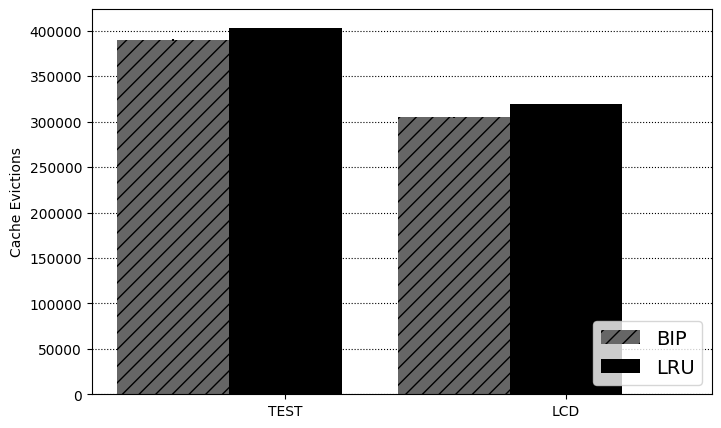
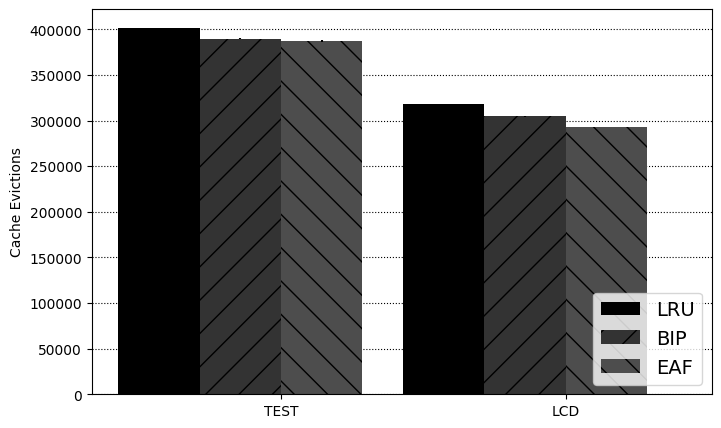
Added paraEAF(basic) and cache hit vs alpha

diff --git a/examples/btp_test/plot_cachepolicy.py b/examples/btp_test/plot_cachepolicy.py
@@ -56,7 +56,8 @@ CACHE_LEGEND = {
          'LRU':             'LRU',
          'BIP':             'BIP',
          'PROB_CACHE':      'ProbCache',
-         'TEST':	    'Test Cache',
+         'TEST':	    	'Test Cache',
+         'EAF':				'EAF',
                     }
 
 # Color and hatch styles for bar charts of cache hit ratio and link load vs topology
@@ -70,6 +71,27 @@ CACHE_BAR_HATCH = {
     'BIP':          '//',
     }
 
+def plot_cache_hits_vs_alpha(resultset, policies, cache_size, alpha_range, strategy, plotdir):
+    desc = {}
+    desc['title'] = 'Cache hit ratio: S=%s C=%s' % (strategy, cache_size)
+    desc['ylabel'] = 'Cache hit ratio'
+    desc['xlabel'] = u'Content distribution \u03b1'
+    desc['xparam'] = ('workload', 'alpha')
+    desc['xvals'] = alpha_range
+    desc['filter'] = {'strategy': {'name': strategy},
+                      'cache_placement': {'network_cache': cache_size}}
+    desc['ymetrics'] = [('CACHE_HIT_RATIO', 'MEAN')]*len(list(set(policies)))
+    desc['ycondnames'] = [('cache_policy', 'name')]*len(list(set(policies)))
+    desc['ycondvals'] = list(set(policies))
+    desc['errorbar'] = True
+    desc['legend_loc'] = 'upper left'
+    desc['line_style'] = CACHE_STYLE
+    desc['legend'] = CACHE_LEGEND
+    desc['plotempty'] = PLOT_EMPTY_GRAPHS
+    plot_lines(resultset, desc, 'CACHE_HIT_RATIO_S=%s@C=%s.png'
+               % (strategy, cache_size), plotdir)
+
+
 def plot_general_policy(resultset, policies, strategies, cache_size, alpha, plotdir, title, ylab, ymetric, name):
 	print(policies, strategies, cache_size, alpha)
 	desc = {}
@@ -79,8 +101,8 @@ def plot_general_policy(resultset, policies, strategies, cache_size, alpha, plot
 	desc['xvals'] = list(set(strategies))
 	desc['filter'] = {'cache_placement': {'network_cache': cache_size},
                       'workload': {'name': 'STATIONARY', 'alpha': alpha}}
-	desc['ymetrics'] = [ymetric]*len(list(set(strategies)))
-	desc['ycondnames'] = [('cache_policy', 'name')]*len(list(set(strategies)))
+	desc['ymetrics'] = [ymetric]*len(list(set(policies)))
+	desc['ycondnames'] = [('cache_policy', 'name')]*len(list(set(policies)))
 	desc['ycondvals'] = list(set(policies))
 	desc['errorbar'] = True
 	desc['legend_loc'] = 'lower right'
@@ -88,7 +110,7 @@ def plot_general_policy(resultset, policies, strategies, cache_size, alpha, plot
 	desc['bar_hatch'] = CACHE_BAR_HATCH
 	desc['legend'] = CACHE_LEGEND
 	desc['plotempty'] = PLOT_EMPTY_GRAPHS
-	
+
 	plot_bar_chart(resultset, desc, name, plotdir)
 
 def plot_cache_hit(resultset, policies, strategies, cache_size, alpha, plotdir):
@@ -133,20 +155,18 @@ def run(config, results, plotdir):
     strategies = settings.STRATEGIES
     policies = settings.CACHE_POLICIES
     # Plot graphs
-    
+    '''
     plot_cache_hit(resultset, policies, strategies, cache_sizes[0], alphas[0], plotdir)
     plot_path_stretch(resultset, policies, strategies, cache_sizes[0], alphas[0], plotdir)
     plot_cache_evictions(resultset, policies, strategies, cache_sizes[0], alphas[0], plotdir)
     plot_cache_utilization(resultset, policies, strategies, cache_sizes[0], alphas[0], plotdir)
     plot_cache_diversity(resultset, policies, strategies, cache_sizes[0], alphas[0], plotdir)
-    
     '''
-    for cache_size in cache_sizes:
-        for alpha in alphas:
-            logger.info('Plotting cache hit ratio for cache size %s vs alpha %s against topologies' % (str(cache_size), str(alpha)))
-            plot_cache_hits_vs_topology(resultset, alpha, cache_size, topologies, strategies, plotdir)
-    logger.info('Exit. Plots were saved in directory %s' % os.path.abspath(plotdir))
-'''
+    
+    
+    for strat in list(set(strategies)):
+         plot_cache_hits_vs_alpha(resultset, policies, cache_sizes[0], alphas, strat, plotdir)
+
 
 def main():
     parser = argparse.ArgumentParser(__doc__)

diff --git a/icarus/models/cache/policies.py b/icarus/models/cache/policies.py
@@ -897,6 +897,92 @@ class BipCache(Cache):
     @inheritdoc(Cache)
     def clear(self):
         self._cache.clear()
+        
+@register_cache_policy('EAF')
+class EafCache(Cache):
+    '''https://users.ece.cmu.edu/~omutlu/pub/eaf-cache_pact12.pdf
+    '''
+    
+    @inheritdoc(Cache)
+    def __init__(self, maxlen, p = 1.0/32, **kwargs):
+        self._cache = LinkedSet()
+        self._EAF = set()
+        self._maxlen = int(maxlen)
+        self.prob = p
+        if not 0 <= self.prob <= 1:
+        	raise ValueError('Probability must be between 0 and 1')
+        if self._maxlen <= 0:
+            raise ValueError('maxlen must be positive')
+            
+    @inheritdoc(Cache)
+    def __len__(self):
+        return len(self._cache)
+
+    @property
+    @inheritdoc(Cache)
+    def maxlen(self):
+        return self._maxlen
+
+    @inheritdoc(Cache)
+    def dump(self):
+        return list(iter(self._cache))
+        
+    @inheritdoc(Cache)
+    def has(self, k, *args, **kwargs):
+        return k in self._cache
+        
+    @inheritdoc(Cache)
+    def get(self, k, *args, **kwargs):
+        # search content over the list
+        # if it has it push on top, otherwise return false
+        if k not in self._cache:
+            return False
+        self._cache.move_to_top(k)
+        return True
+    
+    def put(self, k, *args, **kwargs):
+        """Insert an item in the cache if not already inserted.
+
+        If the element is already present in the cache, it will pushed to the
+        top of the cache.
+
+        Parameters
+        ----------
+        k : any hashable type
+            The item to be inserted
+
+        Returns
+        -------
+        evicted : any hashable type
+            The evicted object or *None* if no contents were evicted.
+        """
+        # if content in cache, push it on top, no eviction
+        if k in self._cache:
+            self._cache.move_to_top(k)
+            return None
+        # if content not in cache append it on top
+        evicted = self._cache.pop_bottom() if len(self._cache) == self._maxlen else None
+        if k in self._EAF:
+        	self._cache.append_top(k)
+        elif random.random() <= self.prob:
+        	self._cache.append_top(k)
+        else:
+        	self._cache.append_bottom(k)
+        self._EAF.add(k)
+        if len(self._EAF) == self._maxlen:
+        	self._EAF = set()
+        return evicted
+
+    @inheritdoc(Cache)
+    def remove(self, k, *args, **kwargs):
+        if k not in self._cache:
+            return False
+        self._cache.remove(k)
+        return True
+
+    @inheritdoc(Cache)
+    def clear(self):
+        self._cache.clear()
 
 
 @register_cache_policy('LRU')

diff --git a/examples/btp_test/config.py b/examples/btp_test/config.py
@@ -30,7 +30,7 @@ RESULTS_FORMAT = 'PICKLE'
 
 # Number of times each experiment is replicated
 # This is necessary for extracting confidence interval of selected metrics
-N_REPLICATIONS = 2
+N_REPLICATIONS = 5
 
 # List of metrics to be measured in the experiments
 # The implementation of data collectors are located in ./icaurs/execution/collectors.py
@@ -49,7 +49,7 @@ DATA_COLLECTORS = ['CACHE_HIT_RATIO', 'UTILIZATION', 'EVICTIONS', 'DIVERSITY', '
 # This would give problems while trying to plot the results because if for
 # example I wanted to filter experiment with alpha=0.8, experiments with
 # alpha = 0.799999999999 would not be recognized 
-ALPHA = [1]
+ALPHA = [0.4, 0.6, 0.8, 1, 1.2]
 
 # Total size of network cache as a fraction of content population
 NETWORK_CACHE = [0.05]
@@ -81,6 +81,8 @@ STRATEGIES = [
      'LCD',             # Leave Copy Everywhere
      #'PROB_CACHE',      # ProbCache
      'LCD',             # Leave Copy Down
+     'LCD',
+     'TEST',
      'TEST',
      'TEST',
              ]
@@ -88,7 +90,7 @@ STRATEGIES = [
 # Cache replacement policy used by the network caches.
 # Supported policies are: 'LRU', 'LFU', 'FIFO', 'RAND' and 'NULL'
 # Cache policy implmentations are located in ./icarus/models/cache.py
-CACHE_POLICIES = ['LRU','BIP','LRU','BIP']
+CACHE_POLICIES = ['LRU','BIP','EAF']*2
 
 # Queue of experiments
 EXPERIMENT_QUEUE = deque()
